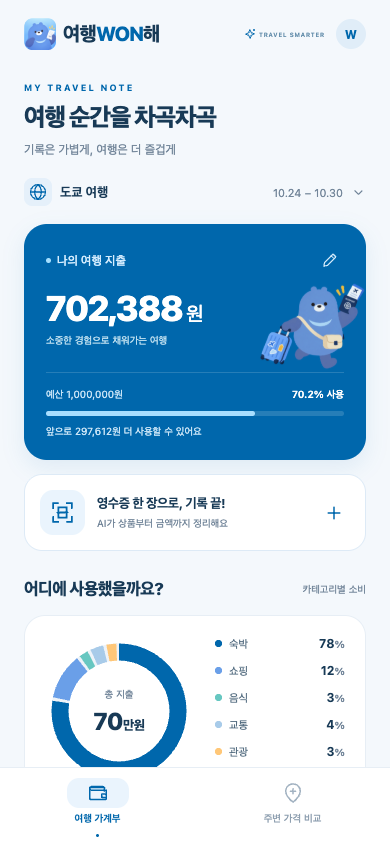
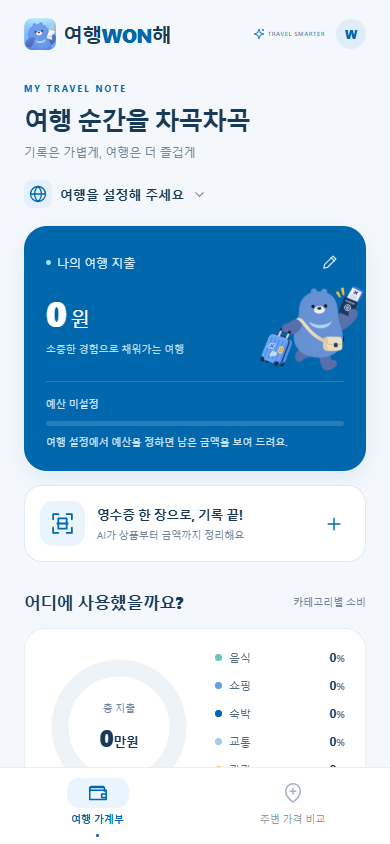
feat: 가계부를 기본 여행·영수증 없이 빈 상태로 시작
- 처음 실행하면 여행과 영수증이 모두 비어 있고, 여행 설정에서 정함
- 예전 기본값(파리·도쿄 기본 여행, 기본 시연 영수증 6건)은 불러올 때 지움
- 여행 설정에 국가 입력 추가, 도시·국가·기간을 정하기 전에는 기기에만 저장
- 브라우저 검증: 빈 시작 상태 반영, 환율 대체 응답 추가, 첫 OCR 대기 시간 늘림

추천순·소비 인사이트(PR #10) 위에 다시 적용하며 충돌을 양쪽 모두 살려 해결:
- App.tsx: import에 recommendProfile·summarize와 tripReady를 함께 둠
  (한쪽만 고르면 summarize가 빠져 앱이 멈췄음)
- tests/domain.test.mjs: 추천순·인사이트 테스트와 빈 시작 테스트를 모두 유지
- 소비 인사이트는 여행(도시·국가·기간)을 정한 뒤에만 요청
- 브라우저 검증의 인사이트 확인을 여행 설정·첫 영수증 등록 뒤로 옮김

(cherry picked from commit 721da401b9fa20aff419cc64360195bbba267bc1)

diff --git a/src/screens/Ledger.tsx b/src/screens/Ledger.tsx
@@ -17,6 +17,7 @@ import {
   money,
   toWon,
   storeLabel,
+  tripReady,
 } from "../domain.mjs";
 import { colors, Icon, Chip, Empty } from "../components/ui";
 import { fetchInsight } from "../api";
@@ -41,11 +42,17 @@ export function Ledger({
   const summary = summarize(state.receipts, state.trip.budget);
   // 소비 인사이트: 가계부 요약이 바뀌면 잠시 기다렸다가 서버에 분석을 요청합니다.
   // 서버에 연결하지 못하면 기기 안의 규칙 기반 문장(spendingInsight)을 보여 줍니다.
+  // 여행(도시·국가·기간)을 정하기 전에는 서버가 분석하지 않으므로 요청하지 않습니다.
   const [insight, setInsight] = useState<Insight | null>(null),
     [insightLoading, setInsightLoading] = useState(false);
+  const ready = tripReady(state.trip);
   const insightKey = JSON.stringify(insightRequest(state));
   useEffect(() => {
-    if (!deviceToken) return;
+    if (!deviceToken || !ready) {
+      setInsight(null);
+      setInsightLoading(false);
+      return;
+    }
     let active = true;
     setInsightLoading(true);
     const timer = setTimeout(() => {
@@ -64,7 +71,7 @@ export function Ledger({
       active = false;
       clearTimeout(timer);
     };
-  }, [insightKey, deviceToken]);
+  }, [insightKey, deviceToken, ready]);
   const filtered = state.receipts
     .filter((r) => filter === "전체" || r.category === filter)
     .sort(
@@ -92,11 +99,17 @@ export function Ledger({
         <View style={s.tripIcon}>
           <Icon name="globe" size={18} color={colors.primary} />
         </View>
-        <Text style={s.tripCity}>{state.trip.city} 여행</Text>
-        <Text style={s.tripDate}>
-          {state.trip.start.slice(5).replace("-", ".")} –{" "}
-          {state.trip.end.slice(5).replace("-", ".")}
+        <Text style={s.tripCity}>
+          {tripReady(state.trip)
+            ? `${state.trip.city} 여행`
+            : "여행을 설정해 주세요"}
         </Text>
+        {tripReady(state.trip) && (
+          <Text style={s.tripDate}>
+            {state.trip.start.slice(5).replace("-", ".")} –{" "}
+            {state.trip.end.slice(5).replace("-", ".")}
+          </Text>
+        )}
         <Icon name="down" size={15} color={colors.muted} />
       </Pressable>
       <View style={s.hero}>
@@ -126,9 +139,13 @@ export function Ledger({
         />
         <View style={s.budget}>
           <View style={s.budgetLabels}>
-            <Text style={s.budgetText}>예산 {won(state.trip.budget)}</Text>
+            <Text style={s.budgetText}>
+              {state.trip.budget
+                ? `예산 ${won(state.trip.budget)}`
+                : "예산 미설정"}
+            </Text>
             <Text style={s.budgetPercent}>
-              {summary.percent.toFixed(1)}% 사용
+              {state.trip.budget ? `${summary.percent.toFixed(1)}% 사용` : ""}
             </Text>
           </View>
           <View style={s.progressTrack}>
@@ -138,15 +155,19 @@ export function Ledger({
                 {
                   width: `${Math.min(100, summary.percent)}%`,
                   backgroundColor:
-                    summary.remaining < 0 ? "#FFBF99" : "#A8DEFF",
+                    state.trip.budget && summary.remaining < 0
+                      ? "#FFBF99"
+                      : "#A8DEFF",
                 },
               ]}
             />
           </View>
           <Text style={s.remaining}>
-            {summary.remaining < 0
-              ? `예산을 ${won(-summary.remaining)} 초과했어요`
-              : `앞으로 ${won(summary.remaining)} 더 사용할 수 있어요`}
+            {!state.trip.budget
+              ? "여행 설정에서 예산을 정하면 남은 금액을 보여 드려요."
+              : summary.remaining < 0
+                ? `예산을 ${won(-summary.remaining)} 초과했어요`
+                : `앞으로 ${won(summary.remaining)} 더 사용할 수 있어요`}
           </Text>
         </View>
       </View>
@@ -395,7 +416,8 @@ export function Ledger({
       <View style={s.footer}>
         <Icon name="info" size={12} color={colors.muted} />
         <Text style={s.footerText}>
-          시연 기록이 포함돼요. 적용 환율은 직접 수정할 수 있어요.
+          {state.receipts.some((r) => r.demo) ? "시연 기록이 포함돼요. " : ""}
+          적용 환율은 직접 수정할 수 있어요.
         </Text>
       </View>
     </View>

diff --git a/src/components/TripSettings.tsx b/src/components/TripSettings.tsx
@@ -16,12 +16,13 @@ export function TripSettings({
   onClear: () => void;
 }) {
   const [draft, setDraft] = useState(trip),
-    [budget, setBudget] = useState(String(trip.budget)),
+    [budget, setBudget] = useState(trip.budget ? String(trip.budget) : ""),
     [error, setError] = useState(""),
     [confirm, setConfirm] = useState(false);
   function save() {
     try {
       if (!draft.city.trim()) throw new Error("여행 도시를 입력해 주세요.");
+      if (!draft.country.trim()) throw new Error("여행 국가를 입력해 주세요.");
       if (
         !validDate(draft.start) ||
         !validDate(draft.end) ||
@@ -31,6 +32,7 @@ export function TripSettings({
       onSave({
         ...draft,
         city: draft.city.trim(),
+        country: draft.country.trim(),
         budget: parseMoney(budget, "KRW"),
       });
     } catch (e) {
@@ -48,7 +50,15 @@ export function TripSettings({
         label="여행 도시"
         value={draft.city}
         onChangeText={(city) => setDraft({ ...draft, city })}
+        placeholder="예: 도쿄"
         testID="trip-city"
+      />
+      <Field
+        label="여행 국가"
+        value={draft.country}
+        onChangeText={(country) => setDraft({ ...draft, country })}
+        placeholder="예: 일본"
+        testID="trip-country"
       />
       <View style={{ flexDirection: "row", gap: 12 }}>
         <Field
@@ -56,12 +66,14 @@ export function TripSettings({
           value={draft.start}
           onChangeText={(start) => setDraft({ ...draft, start })}
           placeholder="YYYY-MM-DD"
+          testID="trip-start"
         />
         <Field
           label="여행 종료일"
           value={draft.end}
           onChangeText={(end) => setDraft({ ...draft, end })}
           placeholder="YYYY-MM-DD"
+          testID="trip-end"
         />
       </View>
       <Field
@@ -69,11 +81,11 @@ export function TripSettings({
         value={budget}
         onChangeText={setBudget}
         keyboardType="number-pad"
+        placeholder="예: 1000000"
         testID="trip-budget"
       />
       <Text style={s.note}>
-        원화 환산에는 각 영수증에 입력한 환율을 사용해요. 시연 환율 1 EUR =
-        1,600원은 실시간 환율이 아니에요.
+        원화 환산에는 각 영수증에 입력한 적용 환율을 사용해요.
       </Text>
       {error ? (
         <Text accessibilityRole="alert" style={s.error}>

diff --git a/App.tsx b/App.tsx
@@ -24,11 +24,13 @@ import { ReceiptEditor } from "./src/components/ReceiptEditor";
 import { TripSettings } from "./src/components/TripSettings";
 import { colors, Icon } from "./src/components/ui";
 import {
-  createDemo,
+  createInitialState,
   fingerprint,
   recommendProfile,
   summarize,
+  tripReady,
   validateReceipt,
+  withoutDefaults,
 } from "./src/domain.mjs";
 import { loadLedger, syncLedger } from "./src/api";
 import type { Receipt, TravelState } from "./src/types";
@@ -36,7 +38,7 @@ import type { Receipt, TravelState } from "./src/types";
 const STORAGE_KEY = "travel-wonhae-mobile-v1",
   TOKEN_KEY = "travel-wonhae-device-token";
 function TravelApp() {
-  const [state, setState] = useState<TravelState>(() => createDemo()),
+  const [state, setState] = useState<TravelState>(() => createInitialState()),
     [loaded, setLoaded] = useState(false),
     [storageFailed, setStorageFailed] = useState(false);
   const [tab, setTab] = useState("ledger"),
@@ -89,7 +91,8 @@ function TravelApp() {
           )
             throw new Error("저장 형식 오류");
           parsed.receipts.forEach(validateReceipt);
-          if (active) setState(parsed);
+          // 예전 버전이 넣어 둔 기본 시연 영수증과 기본 여행(파리·도쿄)은 불러오지 않습니다.
+          if (active) setState(withoutDefaults(parsed));
         }
       } catch {
         if (active) {
@@ -119,6 +122,11 @@ function TravelApp() {
   }, [state, loaded, storageFailed]);
   async function refresh() {
     if (!token.current || storageFailed) return;
+    // 여행(도시·국가·기간)을 정하기 전에는 서버가 받지 않으므로 기기에만 저장합니다.
+    if (!tripReady(state.trip)) {
+      setSyncMessage("여행을 설정하면 가계부를 서버에도 저장해요.");
+      return;
+    }
     // 가계부 전체를 순서대로 서버 DB에 저장해 삭제·수정과 재시도를 함께 처리합니다.
     // 저장이 끝나면 PAGE 2가 서버에서 다시 조회해 방금 저장한 영수증도 보여 줍니다.
     const current = state;

diff --git a/src/components/ReceiptEditor.tsx b/src/components/ReceiptEditor.tsx
@@ -451,6 +451,7 @@ export function ReceiptEditor({
               setRate(fallbackRate(c));
               void loadRate(c);
             }}
+            testID={`currency-${c}`}
           />
         ))}
       </View>

diff --git a/README.md b/README.md
@@ -20,7 +20,7 @@
 - **소비 시각화**: 카테고리(숙박·쇼핑·음식·교통·관광·기타)별 도넛 차트와 비율
 - **평균 비교**: 카테고리별 나의 비율, 시연 평균 비율, 그 차이(%p)
 - **소비 인사이트**: 가장 많이 쓴 카테고리와 평균과의 차이를 설명하는 비율 기반 요약
-- **여행 예산**: 도시·기간·예산·적용 환율 설정, 예산 사용률·남은 예산·초과 표시
+- **여행 예산**: 도시·국가·기간·예산 설정, 예산 사용률·남은 예산·초과 표시
 - **나의 영수증**: 최근 구매일 순 목록, 카테고리 필터, 원화·외화 금액 표시, 상세 보기·수정·삭제, 같은 영수증 중복 등록 차단
 
 ### 2. 주변 가격 비교
@@ -50,10 +50,10 @@ AI는 영수증 해석만 맡고, 금액 계산과 검증은 프로그램이 수
 
 - 가계부와 여행 설정은 기기의 AsyncStorage에 저장합니다. 웹에서는 해당 주소의 브라우저 localStorage를 씁니다.
 - 서버는 기기·여행·영수증·품목 4개 테이블에 저장합니다([docs/db-design.md](docs/db-design.md)). 기본은 H2 파일 DB(`data/prices.mv.db`)이고, `npm run server:mysql`로 실행하면 MySQL(`travel_won`)을 씁니다. 기기 토큰은 SHA-256 해시로만 보관합니다. PAGE 2에는 공유하고 매장 위치가 있는 영수증만 나옵니다.
-- 앱은 가계부를 기기(AsyncStorage)에 먼저 저장하고, 바뀔 때마다 서버에 통째로 저장합니다(`PUT /ledger`). 시연 영수증은 서버에 저장하지 않습니다. 서버에 연결되지 않으면 기기에만 저장하고 다음 연결 때 반영합니다.
+- 앱은 가계부를 기기(AsyncStorage)에 먼저 저장하고, 바뀔 때마다 서버에 통째로 저장합니다(`PUT /ledger`). 시연 영수증은 서버에 저장하지 않습니다. 여행 도시·국가·기간을 정하기 전에는 서버가 여행을 받지 않으므로 기기에만 저장합니다. 서버에 연결되지 않으면 기기에만 저장하고 다음 연결 때 반영합니다.
 - 금액은 최소 통화 단위 정수로 저장합니다(EUR·USD·THB는 센트, JPY·KRW는 엔·원). 적용 환율은 소수 4자리까지 받고(`travel_won` 설계는 `DECIMAL(12,4)`), 원화 환산은 금액 × 환율을 끝까지 계산한 뒤 원 단위로 반올림합니다(1000엔 × 8.3983 = 8,398원).
 - 불러온 환율은 영업일마다 고시되는 한국수출입은행 매매기준율로, 참고값입니다. 실시간 환율이나 실제 카드 결제 환율과 다를 수 있습니다. 주말·공휴일·고시 전에는 가장 최근 고시일(최대 7일 전) 값을 씁니다.
-- **시연 데이터**: 처음 실행할 때 보이는 도쿄 여행 영수증 6건(JPY)과 평균 소비 비율은 가상입니다. PAGE 2의 신주쿠 주변 매장·가격은 `travel_won`에 넣은 가데이터([sample-data/](sample-data/README.md))입니다. 시연 영수증은 여행 설정에서 지울 수 있습니다.
+- **시연 데이터**: 처음 실행하면 기본 여행과 기본 영수증 없이 빈 가계부로 시작하고, 여행 설정에서 도시·국가·기간·예산을 정합니다(예전 버전이 넣어 둔 파리·도쿄 기본 여행과 기본 시연 영수증도 불러올 때 지웁니다). 평균 소비 비율은 가상입니다. 영수증 화면의 "시연 영수증으로 체험하기"로 만든 영수증은 시연으로 표시되며 여행 설정에서 지울 수 있습니다. PAGE 2의 신주쿠 주변 매장·가격은 `travel_won`에 넣은 가데이터([sample-data/](sample-data/README.md))입니다.
 - AI 상품 추천과 거리순 정렬은 아직 구현하지 않았습니다. 상품명 검색은 실제 데이터가 쌓인 뒤 다시 확인할 예정입니다.
 - 서버는 로컬 해커톤용 단일 프로세스입니다. 공개 운영에는 사용자 인증, HTTPS, 운영 DB, 접근 제어·비용 한도, 데이터 보관 정책이 필요합니다.
 

diff --git a/SPEC.md b/SPEC.md
@@ -43,7 +43,7 @@
 
 지도는 Mapbox 타일(`EXPO_PUBLIC_MAPBOX_TOKEN`의 공개 토큰, 없으면 OpenStreetMap 타일)과 Web Mercator 좌표 변환을 사용합니다. 반경은 3km, 거리는 좌표 간 직선거리이며 도보 시간은 추정으로 표시합니다. 같은 매장명·주소·상품·통화의 최신 구매일 기록을 비교합니다. GPS 오차는 동일 매장의 별도 지점으로 만들지 않습니다.
 
-비교 평균과 초기 영수증·예시 매장은 시연 데이터임을 표시합니다. 소비 요약은 카테고리 비율 기반 규칙입니다. 불러온 환율은 영업일마다 고시되는 참고값이며 화면에 출처와 기준일을 표시합니다. 실시간 환율·실제 카드 결제 환율, 현재 판매가격·재고, 실제 여행자 평균은 보장하지 않습니다.
+가계부는 기본 여행과 기본 영수증 없이 빈 상태로 시작하고, 사용자가 여행 설정에서 도시·국가·기간·예산을 정합니다. 여행을 정하기 전에는 기기에만 저장합니다. 비교 평균과 체험용 시연 영수증·예시 매장은 시연 데이터임을 표시합니다. 소비 요약은 카테고리 비율 기반 규칙입니다. 불러온 환율은 영업일마다 고시되는 참고값이며 화면에 출처와 기준일을 표시합니다. 실시간 환율·실제 카드 결제 환율, 현재 판매가격·재고, 실제 여행자 평균은 보장하지 않습니다.
 
 ## 3. 테스트 목록
 
